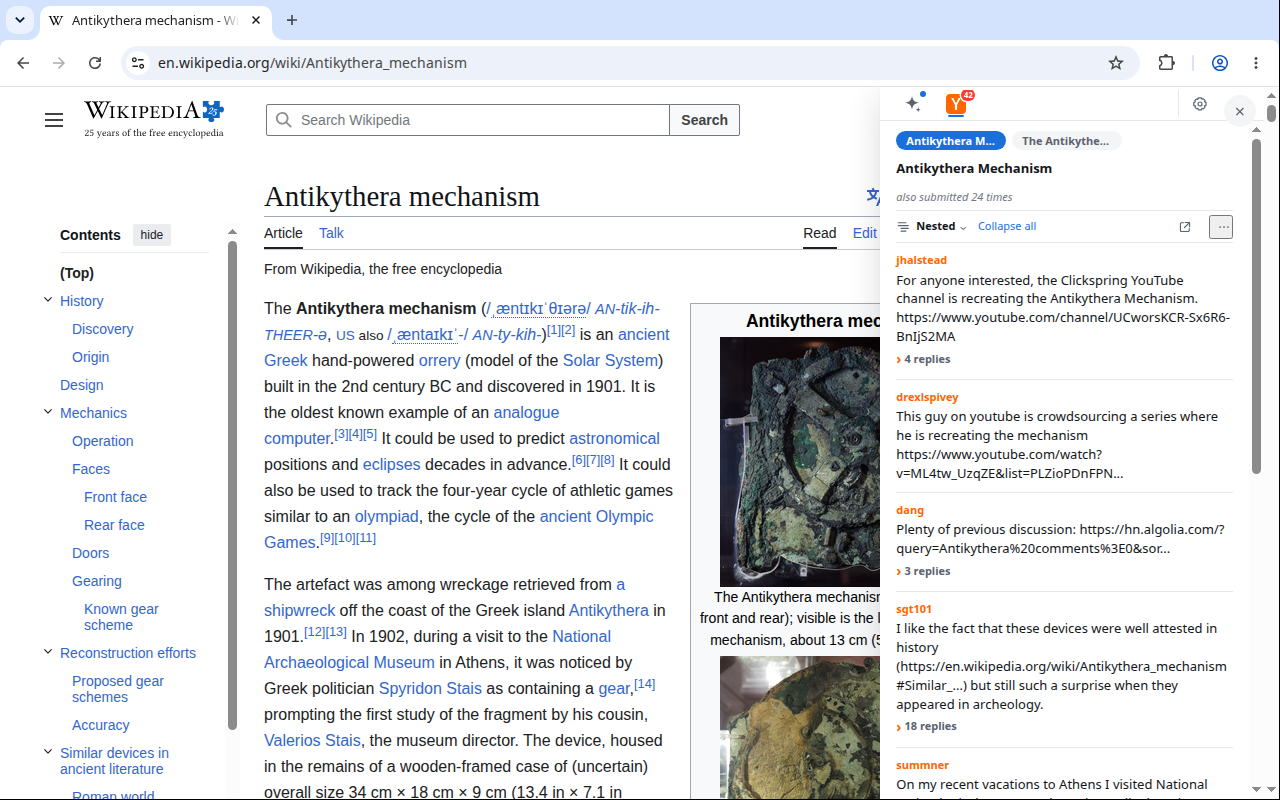
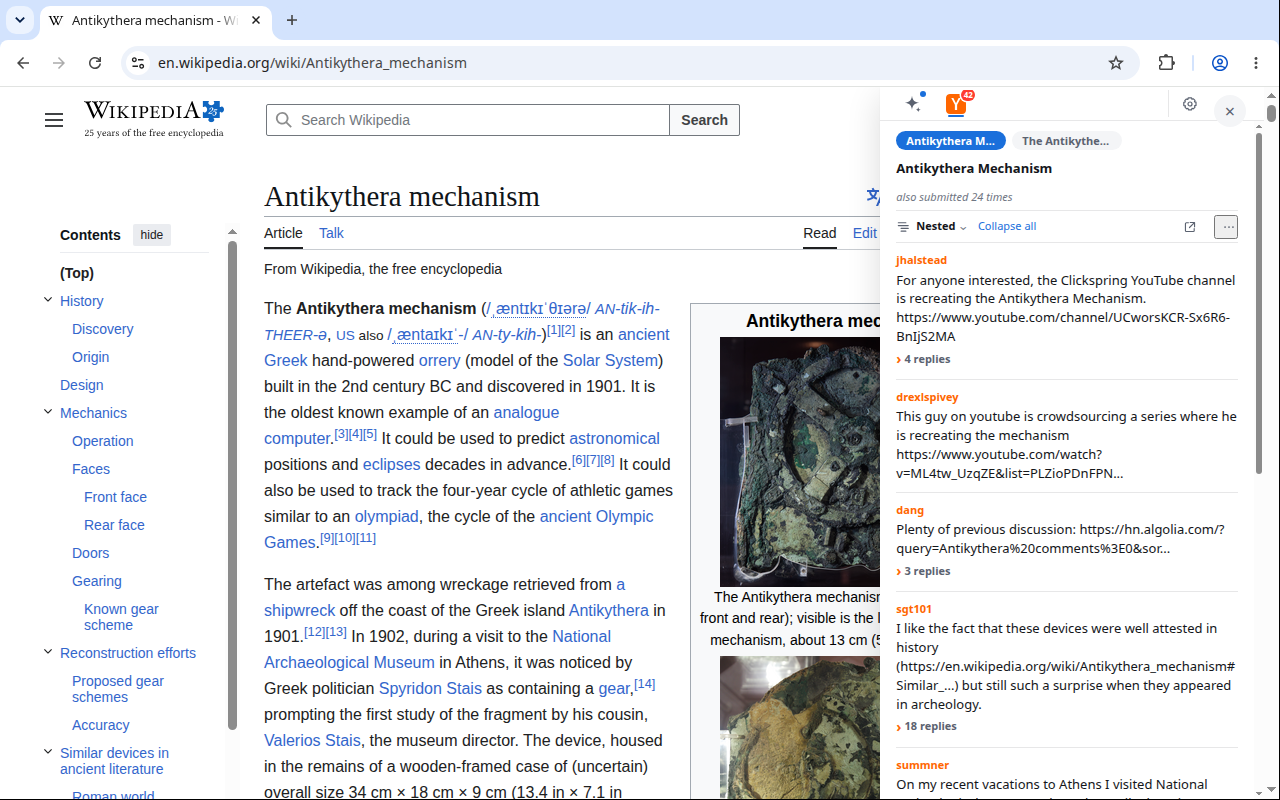
One right edge for the dock, and a guard for the fragment fix
The panel's controls did not line up with its content. `.parle-body`
scrolls, and Chrome's classic scrollbar took ~15px of a 320-420px column
only once the content overflowed — while `.parle-close` is positioned
against the dock, so it never moved with it. The header sat flush to the
panel edge and every line beneath it stopped short. Thin scrollbar,
`scrollbar-gutter: stable`, and the close button now clears the same
gutter, so there is one right edge whether or not the content scrolls.

The nav clearance is derived from that gutter rather than from a number
that happened to work: a fixed 48px left Settings overlapping the close
button by 2px the moment the button moved. The e2e box assertion #8's
reviewer asked for caught it — Settings right=1232, close left=1230 — which
is the whole reason that assertion exists.

The `#fragment` fix shipped last commit with no test. It has one now, and
it was proven RED against the pre-fix code first: 0 docks after the first
hop, 1 after the fix. 62/62.

From review on f4ee8a6: `privacy-policy.md` §1.5 and `listing.md` §4 were
corrected to say comments arrive when a Discussion opens, but four other
places still said summarise-only — the Privacy-tab paste in `listing.md`
and `SUBMIT.md`, and two README rows. Those are what a store reviewer
reads next to the zip, so they mattered most and were missed. `render.ts`'s
JSDoc claimed `readDiscussion` is only ever called by a click; `networkRoom`
fires it when a room paints.
[…]

diff --git a/apps/extension/src/view/styles.ts b/apps/extension/src/view/styles.ts
@@ -290,7 +290,25 @@ export const PANEL_STYLES = `
   max-height: none;
 }
 .parle-dock .parle { flex: 1 1 auto; min-height: 0; }
-.parle-dock .parle-body { max-height: none; flex: 1 1 auto; min-height: 0; }
+.parle-dock .parle-body {
+  max-height: none;
+  flex: 1 1 auto;
+  min-height: 0;
+  /*
+   * A thin scrollbar, and its gutter reserved whether or not it is showing.
+   *
+   * The dock is a fixed 320-420px column, and Chrome's classic scrollbar takes
+   * about 15px of it. Without a stable gutter it appears only once the content
+   * overflows, so the whole column shifts left the moment a discussion is long
+   * enough — and the close button, which is positioned against the dock rather
+   * than against the scrolling content, does not shift with it. The result is
+   * the header's controls sitting flush to the panel edge while every line
+   * beneath them stops 15px short, which is exactly the misalignment visible in
+   * store screenshot 01.
+   */
+  scrollbar-width: thin;
+  scrollbar-gutter: stable;
+}
 .parle-dock .parle-compact { height: 100%; }
 .parle-main { min-width: 0; }
 .parle-extras { margin-top: var(--parle-3); }
@@ -557,8 +575,16 @@ export const PANEL_STYLES = `
     border-top: 0;
     border-bottom: 1px solid var(--parle-line);
   }
-  /* The in-page dock owns an absolute close button in this corner. */
-  .parle-dock .parle-compact .parle-nav { padding-right: 48px; }
+  /*
+   * The in-page dock owns an absolute close button in this corner, and the
+   * clearance is derived from where that button actually is rather than from a
+   * number that happened to work. When the close button moved left to clear the
+   * scroll gutter, a fixed 48px left Settings overlapping it by 2px — caught by
+   * the e2e box assertion, which is why that assertion exists.
+   */
+  .parle-dock .parle-compact .parle-nav {
+    padding-right: calc(48px + var(--parle-scroll-gutter, 0px));
+  }
 }
 
 /* A Discussion's own words. */
@@ -923,6 +949,7 @@ export const PANEL_STYLES = `
 
 /* the surface — full screen under 640px, docked right at and above it */
 .parle-dock {
+  --parle-scroll-gutter: 10px;
   position: fixed;
   inset: 0;
   z-index: 2147483647;
@@ -944,7 +971,8 @@ export const PANEL_STYLES = `
   all: unset;
   position: absolute;
   top: calc(env(safe-area-inset-top, 0px) + var(--parle-2));
-  right: var(--parle-2);
+  /* Clears the scroll gutter below it so the panel has one right edge. */
+  right: calc(var(--parle-2) + var(--parle-scroll-gutter, 0px));
   z-index: 1;
   display: grid;
   place-items: center;

diff --git a/apps/extension/e2e/parle.e2e.ts b/apps/extension/e2e/parle.e2e.ts
@@ -592,6 +592,28 @@ const main = async () => {
   )
   await elsewhere.close()
 
+  /**
+   * A fragment is not a move, and the panel must not treat it as one.
+   *
+   * `Canonical` drops `#...` unconditionally, so `#one` and `#two` are the same
+   * Subject — but `noticeMove` compared raw `location.href` and detached, so any
+   * table-of-contents click closed the dock. That was reachable from the article
+   * in store screenshots 01 and 03, and it shipped without a check.
+   *
+   * RED against the pre-fix code: this reads 0 docks after the first hop.
+   */
+  await page.evaluate(() => { window.location.hash = "#parle-fragment-one" })
+  await settle(700)
+  const afterFirstHash = await pill.count(".parle-dock")
+  await page.evaluate(() => { window.location.hash = "#parle-fragment-two" })
+  await settle(700)
+  const afterSecondHash = await pill.count(".parle-dock")
+  record(
+    "a #fragment change keeps the panel — it is the same page",
+    afterFirstHash === 1 && afterSecondHash === 1,
+    `${afterFirstHash} dock(s) after the first hop, ${afterSecondHash} after the second`
+  )
+
   await page.goto(ELSEWHERE, { waitUntil: "domcontentloaded" }).catch(() => {})
   await settle(800)
   const afterNav = await pillPanel(page)

diff --git a/apps/extension/src/view/settingsView.test.ts b/apps/extension/src/view/settingsView.test.ts
@@ -299,6 +299,14 @@ describe("the first-run page", () => {
   })
 
   it("names the toolbar button in the one state where it is the only way in", () => {
-    expect(FIRST_RUN.said.manual).toContain("toolbar button")
+    // "Only when I ask" is the state where the toolbar button is the reader's
+    // whole remaining way in, so naming it is not decoration. The assertion is
+    // on the three things that make the sentence actionable rather than on one
+    // substring: that nothing goes out as they browse, where the button is, and
+    // that the choice is not a one-way door.
+    expect(FIRST_RUN.said.manual).toContain("toolbar")
+    expect(FIRST_RUN.said.manual).toMatch(/Parle button/)
+    expect(FIRST_RUN.said.manual).toMatch(/nothing is sent as you browse/i)
+    expect(FIRST_RUN.said.manual).toContain("Settings")
   })
 })

diff --git a/apps/extension/src/view/render.ts b/apps/extension/src/view/render.ts
@@ -75,8 +75,12 @@ export interface Acts {
    * Read one Discussion's comments, or close it again.
    *
    * Keyed rather than passed a Row so a surface cannot ask about a Discussion
-   * this panel is not showing. Costs one request against the reader's own IP,
-   * which is why nothing calls it except their click.
+   * this panel is not showing. Costs one request against the reader's own IP.
+   *
+   * `networkRoom` fires this when it paints a Discussion, because the comments
+   * are what the room is for — so this is not click-only, and the disclosures
+   * say so. What it is NOT is a page-load fetch: a room only paints for a panel
+   * the reader opened, on a Discussion they chose.
    */
   readonly readDiscussion: (key: string) => void
   /** Turn automatic lookups on or off, everywhere. */

diff --git a/apps/extension/src/view/welcomeCopy.ts b/apps/extension/src/view/welcomeCopy.ts
@@ -77,7 +77,10 @@ export const FIRST_RUN = {
   said: {
     undecided: "Not chosen yet. Nothing is being looked up.",
     automatic: "Every page you read that is not skipped goes to Hacker News and Reddit.",
-    manual: "Nothing is sent until you click the toolbar button."
+    manual:
+      "Nothing is sent as you browse. To look up the page you are on, click the Parle button in " +
+      "the browser toolbar — top right, next to the address bar — and Parle asks about that page, " +
+      "once. You can change this any time in Settings."
   },
 
   /** The way to the long version. The detail moved; it was not dropped. */

diff --git a/README.md b/README.md
@@ -54,7 +54,7 @@ Three things this project will not claim:
 | `www.reddit.com`, then `old.reddit.com` if that is refused | the canonicalized address — **not** the title | **your Reddit cookies** on the first attempt (`credentials: "include"`), because Reddit answers `403` without them. The fallback is cookie-free. |
 | A link shortener — `t.co`, `bit.ly` and the like — **only while you are on Hacker News, Reddit or X, and only once you have answered the first-run question with "yes"** | a `HEAD` (then one `GET` if that is refused) for a shortened link *that was on the page you were already looking at*, to find out where it goes. Nothing about any other page you have read. Capped at 150 requests an hour, deduplicated per page, and cached. | none |
 | X | nothing. The code that would ask X is compiled out of this build. | — |
-| `hn.algolia.com/api/v1/items/…`, `www.reddit.com/comments/….json` — **only when you press "Summarise these discussions"** | one request per discussion being summarised, up to six, asking for that thread's comments. Never on a page load, and never for a page you did not press the button on. | none for Hacker News; **your Reddit cookies** for Reddit, as above |
+| `hn.algolia.com/api/v1/items/…`, `www.reddit.com/comments/….json` — **when you open a discussion, and when you press "Summarise these discussions"** | opening a discussion asks for that thread's comments, because the comments are what the panel shows; summarising asks for up to six. Never on a page load, and never for a page whose panel you did not open. | none for Hacker News; **your Reddit cookies** for Reddit, as above |
 | **Whatever AI Provider you connected**, if you connected one — your own API key's endpoint, or nothing at all if you chose your browser's built-in model | **only when you press "Summarise these discussions"**: the page's address, and the text of the comments just fetched. This is the largest thing Parle ever sends anywhere, and it is the only thing that never happens without a click. | your own API key or token, which you pasted |
 | Any server run by this project | nothing. There is no backend, and the extension never contacts one. | — |
 
@@ -201,10 +201,12 @@ your Provider. So it never happens on its own. The panel shows the sentence firs
 > Parle will read the comments of 3 discussions and send them to your own API key to be
 > summarised. It has not done that yet.
 
-and only a click on **Summarise these discussions** does anything. Two tests hold that on the
-requests that actually left rather than on what the screen said: `src/ai/Digest.test.ts` at the
-seam, and `src/app/Summarise.test.ts` through the whole shipped graph — a navigation, a settled
-panel, and not one comment fetched until the button is pressed.
+and only a click on **Summarise these discussions** sends anything to a Provider. Comments
+themselves arrive earlier — opening a discussion fetches that thread's comments, because they are
+what the panel shows. Two tests hold the part that matters on the requests that actually left
+rather than on what the screen said: `src/ai/Digest.test.ts` at the seam, and
+`src/app/Summarise.test.ts` through the whole shipped graph — a navigation, a settled panel, and
+not one comment fetched before the reader opened anything.
 
 **Every Finding cites a comment, and the citation is a link you can follow.** ADR 0006 lets a
 Digest report a claim as *disputed* — the only judgement it makes, and always someone else's —

diff --git a/apps/extension/e2e/BATTLE.md b/apps/extension/e2e/BATTLE.md
@@ -10,7 +10,7 @@ recordings are preserved inside §4's ledger entries as the "before" of each fix
 
 > **Current-state addendum, 2026-08-11.** This document preserves the 2026-08-10 battle as historical
 > evidence. Its title-search rows and 1,328-test count are not the current product: title search was
-> subsequently removed in full. The current gate is 1,309 unit tests, `pnpm e2e` at 61/61, and
+> subsequently removed in full. The current gate is 1,241 unit tests, `pnpm e2e` at 62/62, and
 > `e2e:torture` at 48/48. The portable `e2e/run-browser.sh` uses Xvfb on Linux and visible Chrome on
 > macOS because Chrome 151 does not load extensions headlessly.
 
@@ -28,7 +28,7 @@ collectively abusive.
 | step | command | what it proves |
 |---|---|---|
 | 1 | `pnpm typecheck && pnpm test` | 20 turbo tasks; the whole unit suite across all 11 workspaces |
-| 2 | `pnpm e2e` | the 61-check behaviour run: consent before anything, Lookups on the wire, Harvest provenance on the disk, the mark, the in-page panel on every surface, the Digest end-to-end against a local Provider, exclusion, quiet pages, forgetting, and adaptive navigation geometry — including the Safari-shaped overlay pass. **The 17-check title race (`title.e2e.ts`) is gone**: ADR 0020 deleted the title search, and the file with it. |
+| 2 | `pnpm e2e` | the 62-check behaviour run: consent before anything, Lookups on the wire, Harvest provenance on the disk, the mark, the in-page panel on every surface, the Digest end-to-end against a local Provider, exclusion, quiet pages, forgetting, and adaptive navigation geometry — including the Safari-shaped overlay pass. **The 17-check title race (`title.e2e.ts`) is gone**: ADR 0020 deleted the title search, and the file with it. |
 | 3 | `e2e:sweep` (`SWEEP_SHARDS=8`, `SWEEP_RESOLVED` pinned) | the WIDENED corpus: 82 front-door rows round-robined across 8 shards, each with its own profile and its own verified X display (`display.ts`), **plus** the page-KIND scenarios (`kinds.corpus.ts` — 23 rows since the re-battle: the original 21 plus the two ADR 0005 insurance rows of §4c) as a ninth co-gated worker. One token bucket for all nine; a raw-CDP observer per worker stamps every real `hn.algolia.com` request; the closing block reports MEASURED peak and sustained, merged |
 | 4 | `e2e:torture`, then `TORTURE_ONLY="worker death"` ×4 | 8 adversarial scenarios, 44 checks: MV3 worker death mid-Enquiry (five times in total — flakiness here would be a product finding), 20-flip back/forward storms, two tabs on one Subject, Networks switched off mid-flight, pause/resume under an open panel, corrupt settings + starved quota, offline + wires cut mid-Enquiry, a hostile host page, eight days of clock skew. Zero external requests by construction — Algolia and Reddit are route-served inside the harness |
 | 5 | `e2e:store` | the five 1280×800 Chrome Web Store frames: real extension, live Hacker News, local stand-in Provider (labelled as such in the run output) |

diff --git a/HANDOFF.md b/HANDOFF.md
@@ -33,7 +33,7 @@ a backend, when it exists, may only make things *faster*, never *possible*
 
 ```
 main @ 0ea9779 · ziahamza/parle-extension
-1,241 unit tests · 20/20 typecheck · e2e 61/61 · torture 48/48 · 21 ADRs
+1,241 unit tests · 20/20 typecheck · e2e 62/62 · torture 48/48 · 21 ADRs
 ```
 
 Working and proven in a real browser: discovery against live Hacker News; Reddit (verified from the
@@ -69,7 +69,7 @@ Xvfb when it is available and the visible browser on macOS; Chrome 151 ignores `
 headless mode, so these cannot be honest headless checks. Not jsdom, not mocks. From `apps/extension/`:
 
 The normal gate lives in `.github/workflows/ci.yml`: pushes to `main`, pull requests, and manual runs
-split quality/package checks, the 61-check browser suite, the 48-check torture suite, and a real Apple
+split quality/package checks, the 62-check browser suite, the 48-check torture suite, and a real Apple
 packaging job across GitHub
 runners. Local runs are for focused development and manual Chrome QA, not for repeatedly paying the
 whole regression cost on a contributor's machine. `.github/workflows/release-readiness.yml` is the
@@ -77,7 +77,7 @@ on-demand store-artifact job; it emits the upload zip and five audited 1280×800
 
 | command | what it is |
 |---|---|
-| `pnpm e2e` | **the gate.** 61 behaviour checks: consent-before-anything, what went on the wire, what is on disk, the mark, the in-page panel on every surface, adaptive navigation geometry, the Digest, the Safari-shaped overlay |
+| `pnpm e2e` | **the gate.** 62 behaviour checks: consent-before-anything, what went on the wire, what is on disk, the mark, the in-page panel on every surface, adaptive navigation geometry, the Digest, the Safari-shaped overlay |
 | `pnpm e2e:torture` | 48 adversarial checks — compact nested/flat/deep-handoff interactions, worker death mid-flight, rapid navigation, two tabs one page, settings flipped mid-flight, storage full/corrupt, offline, a hostile page that overrides `attachShadow`, clock skew |
 | `pnpm e2e:sweep` | the relevance sweep, 8 shards + a page-kinds worker behind one shared politeness gate |
 | `pnpm e2e:kinds` | 23 page *shapes* — redirect chains, SPAs, AMP/canonical, paywalls, IDN, Trusted-Types, iframes |

diff --git a/store/listing.md b/store/listing.md
@@ -243,7 +243,7 @@ and it is the strategy here.** Tick these three:
 | Category | Tick | Why |
 |---|---|---|
 | **Web history** | ✅ **YES** | The address of nearly every page the reader opens is transmitted to Hacker News and Reddit. This is the disclosure the whole submission turns on. Do not leave it unticked under any reasoning. |
-| **Website content** | ✅ **YES** | On Hacker News, Reddit and X the content script reads links, thread ids, scores and comment counts from the page. When the reader presses the summarise button, comment text is fetched and sent to their chosen AI Provider. |
+| **Website content** | ✅ **YES** | On Hacker News, Reddit and X the content script reads links, thread ids, scores and comment counts from the page. Opening a Discussion in the panel fetches that Discussion's comments, because the comments are what the panel shows. Pressing the summarise button additionally sends comment text to the reader's own AI Provider. Neither happens on a page load, nor for a page whose panel was never opened. |
 | **Authentication information** | ✅ **YES** | If the reader connects an AI Provider, their API key or token is held in extension storage and sent to the endpoint they configured. It is a credential the item handles, so it is declared. |
 
 Leave these **unticked**, with the reason to give if a reviewer asks:

diff --git a/store/SUBMIT.md b/store/SUBMIT.md
@@ -293,7 +293,7 @@ reference.
 | Category | | Why |
 |---|---|---|
 | **Web history** | ✅ | The address of nearly every page the reader opens is transmitted to Hacker News and Reddit. This is the disclosure the whole submission turns on. **Do not leave this unticked under any reasoning.** |
-| **Website content** | ✅ | On Hacker News, Reddit and X the content script reads links, thread ids, scores and comment counts from the page the reader is already on. When they press summarise, comment text is fetched and sent to their own AI Provider. |
+| **Website content** | ✅ | On Hacker News, Reddit and X the content script reads links, thread ids, scores and comment counts from the page the reader is already on. Opening a Discussion fetches that Discussion's comments — they are what the panel shows. Pressing summarise additionally sends comment text to their own AI Provider. Neither on a page load, nor for a page whose panel was never opened. |
 | **Authentication information** | ✅ | If the reader connects an AI Provider, their API key is held in extension storage and sent to the endpoint they configured. It is a credential the item handles, so it is declared. |
 
 Leave the other six unticked. `listing.md` §3.1 has the sentence to give for each if a reviewer
